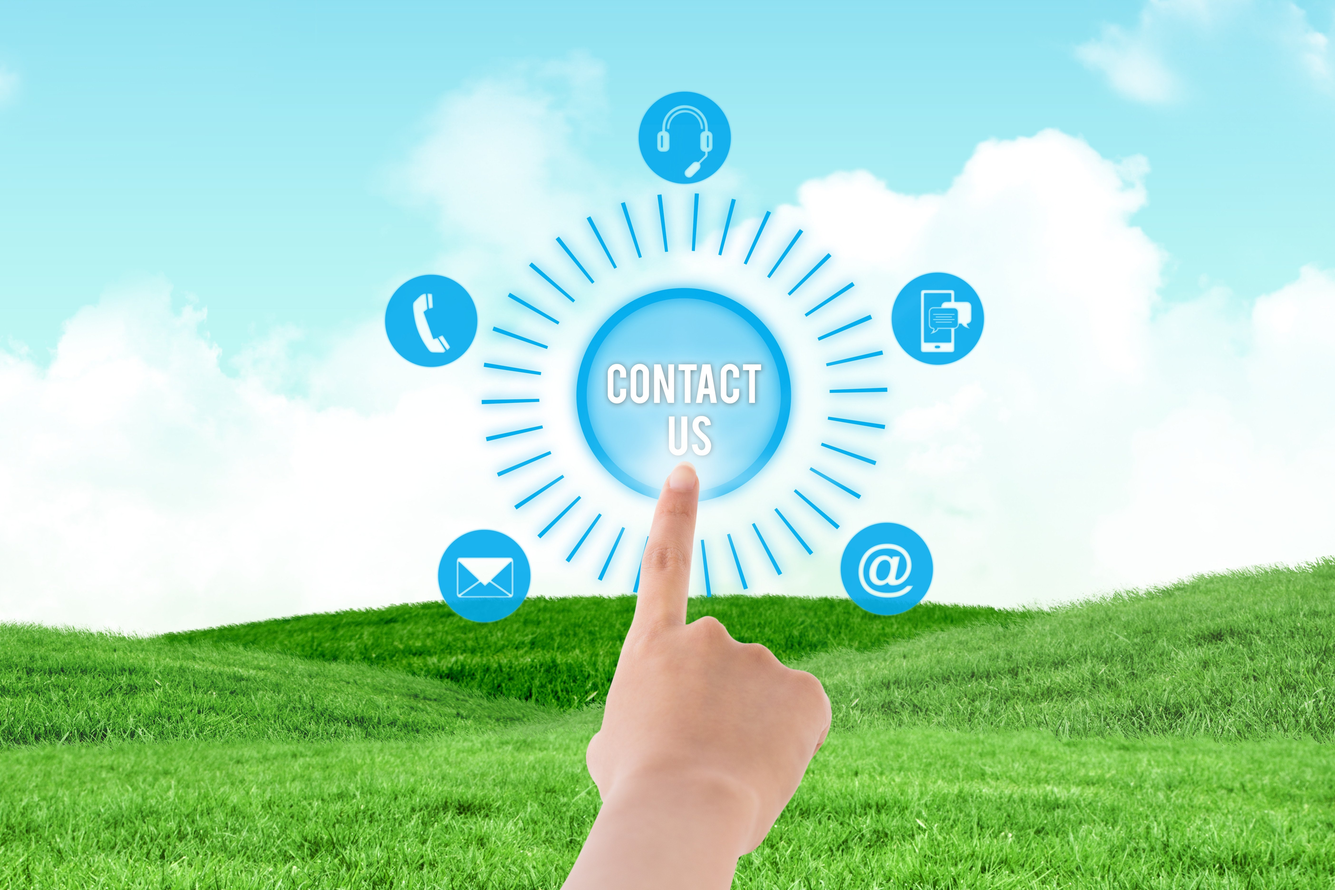
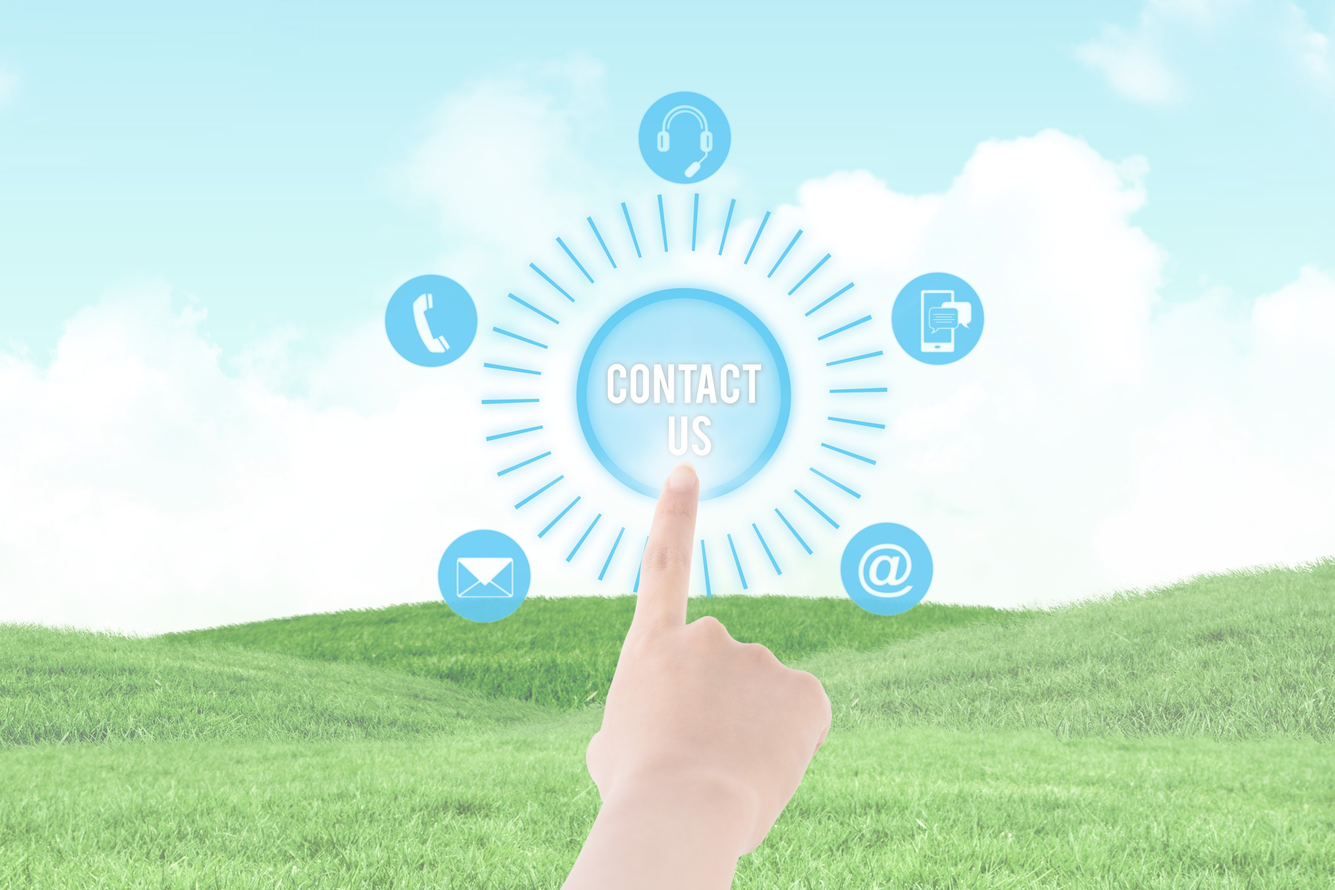
Modification image, page_contact et style.css.

diff --git a/style.css b/style.css
@@ -233,9 +233,49 @@
 
 
 /* Partie CSS spécifique à la page_contact */
-.backgroundImage {
-    background-color: white;
+
+.mainContainer {
     display: flex;
-    opacity: 0.2;
-    background-attachment: fixed;
+    flex-direction: column;
+}
+
+fieldset {
+    border-style: solid;
+    border-radius: 8px;
+    border-color: green;
+}
+
+.formulaireSection {
+    background-image: url(img/img_contact.jpg); 
+    display: flex;
+    background-size: cover;
+    justify-content: center;
+    padding: 10px;
+}
+.formulaireContainer {
+    display: flex;
+}
+
+.titleContact {
+    margin: auto;
+    display: flex;
+    flex-direction: column;
+}
+
+.pTitleContact {
+    margin: 0;
+    line-height: 2em;
+}
+
+.formulaire {
+    line-height: 2em;
+}
+
+.quiSommesNousContainer {
+    display: flex;
+    align-items: center;
+}
+
+.quiSommesNous {
+    margin: auto;
 }

diff --git a/page_contact.php b/page_contact.php
@@ -25,45 +25,49 @@
 		     </nav>
 		     
   </header>
-    <main>
-        <section class="generalSection">
-            <img src="img/img_contact.jpg" alt="" class=backgroundImage>
-            <h1>Contact</h1>
-            <p>
-                Une question? <br>
-                Un bug sur notre site? <br>
-                N'hésitez pas à nous contacter via le formulaire suivant, nous vous répondrons dès que possible.
-            </p>
-            <form target ="_self" action="formulaire_merci.php" method="GET" class= formulaire autocomplete="on" target="self">
-                <div class="nom">
-                    <label for="nom">Votre nom</label>
-                    <input type="text" name="nom" id="nom" required>
-                </div>
-                <div class="formulaire">
-                    <label for="prenom">Votre prénom</label>
-                    <input type="text" name="prenom" id="prenom" required>
-                </div>
-                <div class="formulaire">
-                    <label for="email">Votre email</label>
-                    <input type="email" name="email" id="email" required>
-                </div>
-                <div class="formulaire">
-                    <label for="message">Votre message</label>
-                    <textarea name="message" id="message" cols="50" rows="20" required spellcheck="true" wrap="hard"></textarea>
-                </div>
-                <div class="formulaire">
-                    <input type="submit" value="Envoyer" onclick="window.location.href = 'index.html'";>
-                </div>
-            </form>
+    <main class="mainContainer">
+        <section class="formulaireSection"> 
+          <fieldset>                    
+              <legend class=titleContact><h1>Contact</h1></legend>
+                    <p class="pTitleContact">
+                        Une question? <br>
+                        Un bug sur notre site? <br>
+                        N'hésitez pas à nous contacter via le formulaire suivant, nous vous répondrons dès que possible.
+                    </p>
+                    <form target ="_self" action="formulaire_merci.php" method="GET" class= "formulaire" autocomplete="on" target="self">
+    
+
+                        <div class="nom">
+                            <label for="nom">Votre nom</label>
+                            <input type="text" name="nom" id="nom" required>
+                        </div>
+                        <div class="formulaire">
+                            <label for="prenom">Votre prénom</label>
+                            <input type="text" name="prenom" id="prenom" required>
+                        </div>
+                        <div class="formulaire">
+                            <label for="email">Votre email</label>
+                            <input type="email" name="email" id="email" required>
+                        </div>
+                        <div class="formulaire">
+                            <label for="message">Votre message</label>
+                            <textarea name="message" id="message" cols="50" rows="20" required spellcheck="true" wrap="hard"></textarea>
+                        </div>
+                        <div class="formulaire">
+                            <input type="submit" value="Envoyer" onclick="window.location.href = 'index.html'";>
+                        </div>
+                        </fieldset>
+                    </form>
         </section>
-        <section>        
-            <div>
+        <section class="quiSommesNousContainer">        
+            <div class="quiSommesNous">
                 <h1>Qui sommes-nous?</h1>
                 <p>
                     L'association BadMood est composée d'une dizaine de bénévoles, tous issus d'études en comportement psychologique et/ou impactés par des comportements psychologiques dans leur entourage. Notre but est de vous apporter conseil et soutien,et de vous rediriger vers les spécialistes les plus compétents en fonction de votre besoin.
                 </p>
-        </section>    
             </div>    
+        </section>    
+
     </main>
     <script src="script.js"></script>
 </body>
